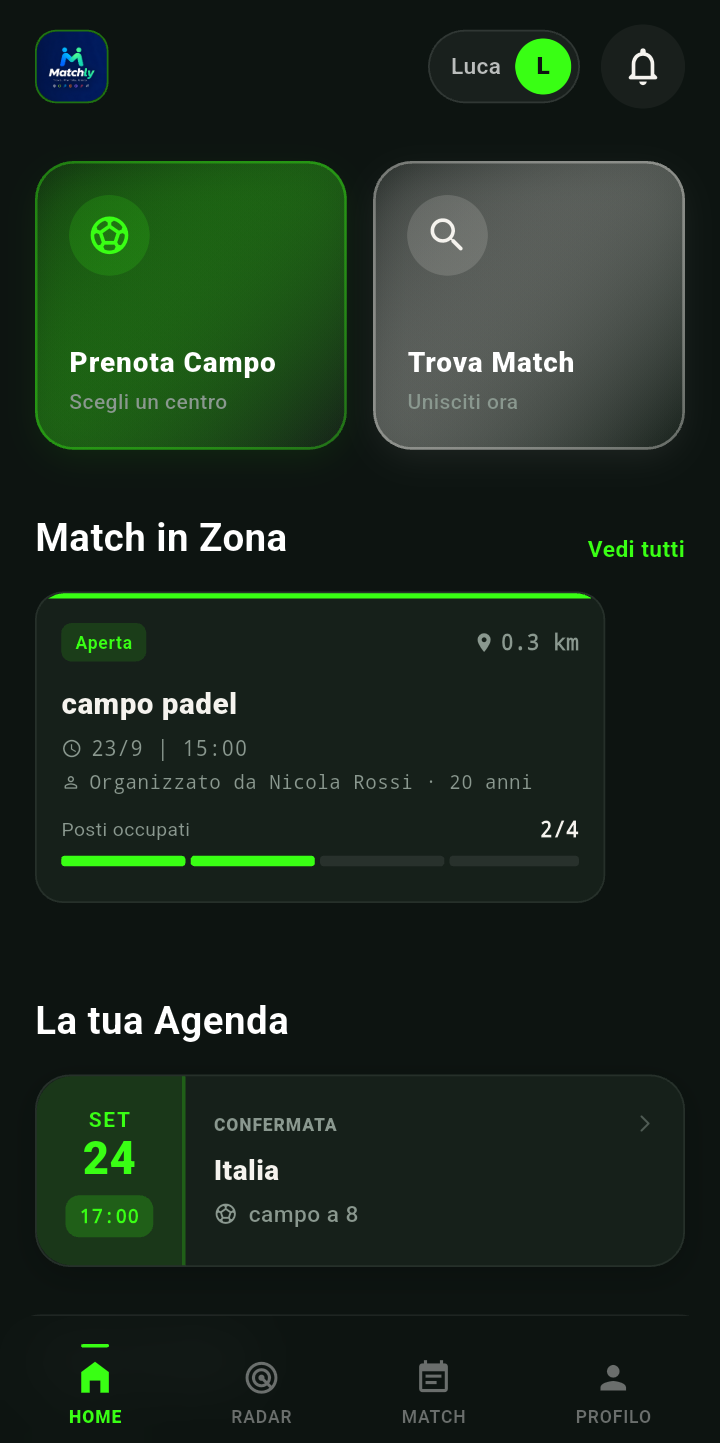
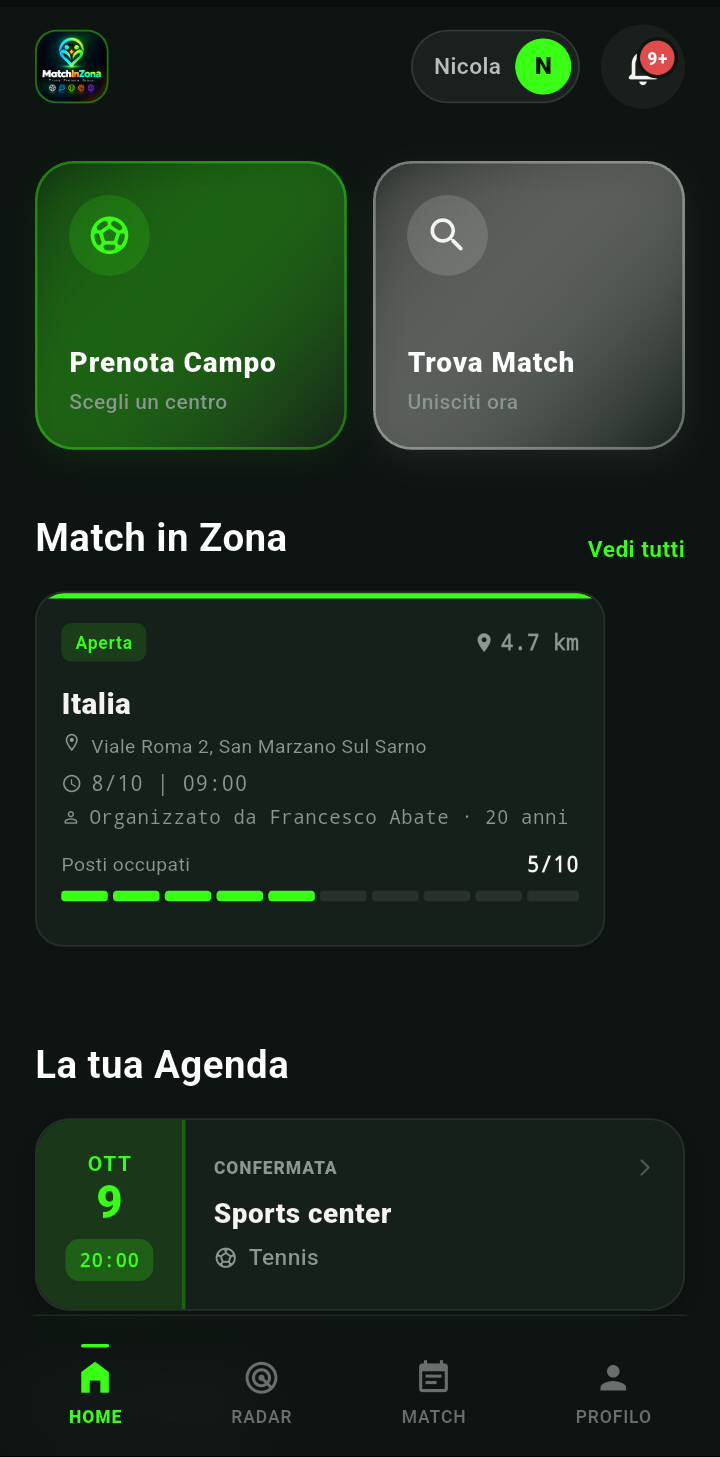
foto

diff --git a/src/App.jsx b/src/App.jsx
@@ -28,7 +28,7 @@ function App() {
         <div className="hero-glow hero-glow-orange"></div>
 
         <div className="hero-text">
-          <div className="badge">LO SPORT INIZIaaaaaaaaA DA QUI</div>
+          <div className="badge">LO SPORT INIZIA DA QUI</div>
 
           <h1>
             Trova.
